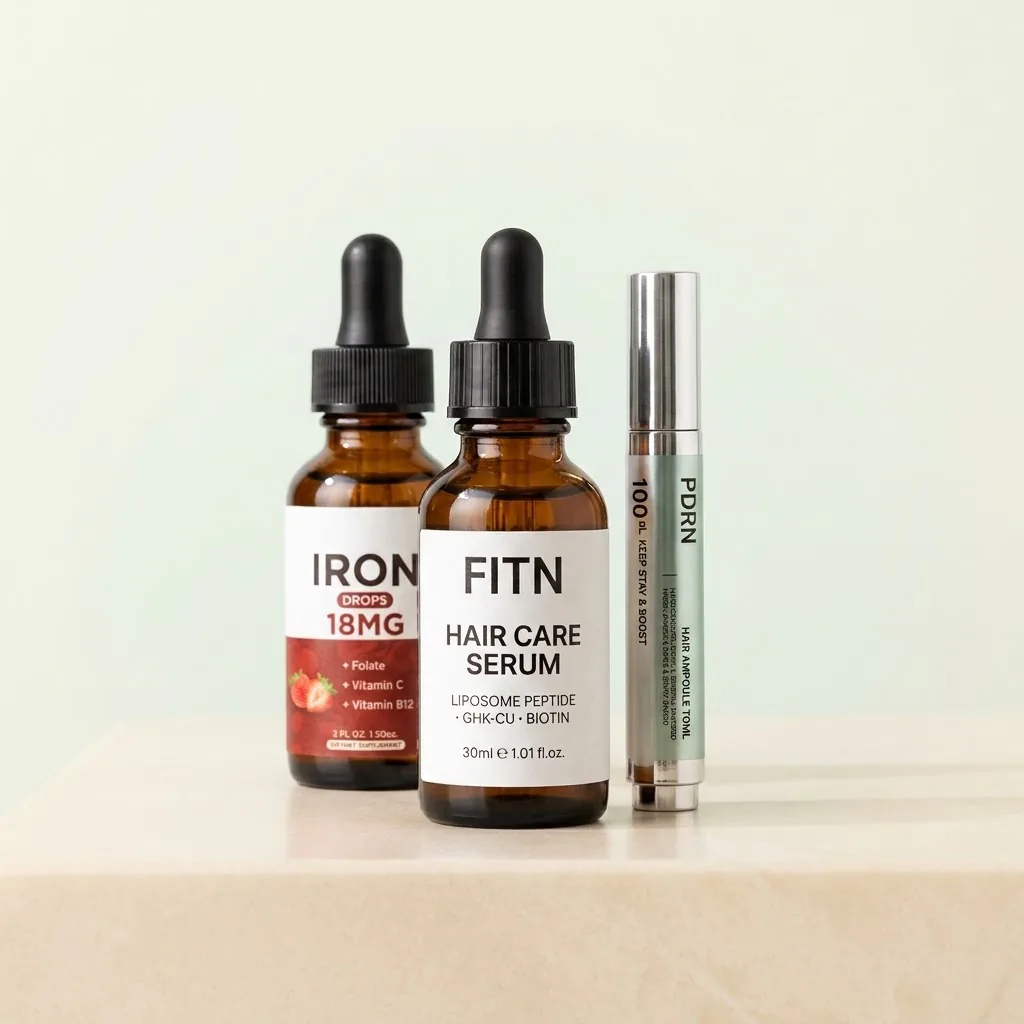
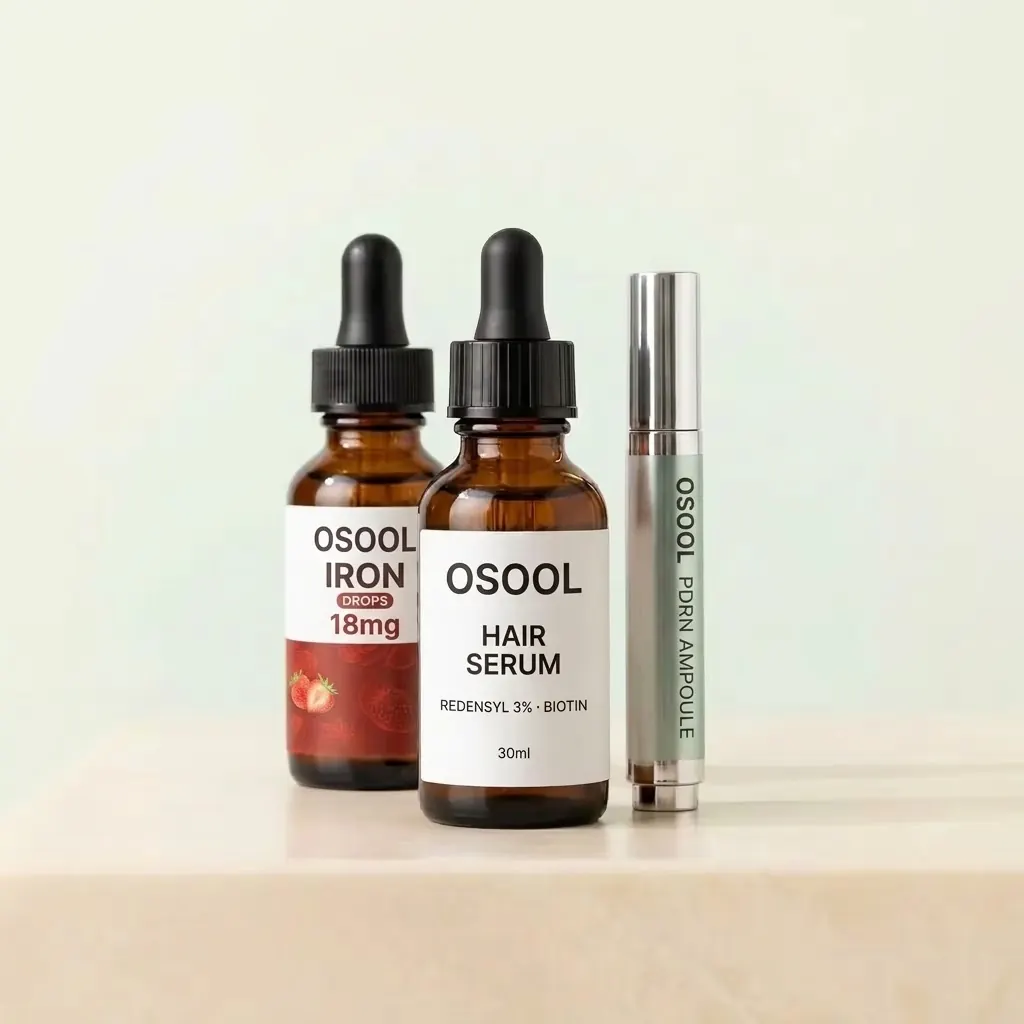
Replace FITN product photos with OSOOL labels so ads match the store.

Changed region(s): [[0.2812, 0.5, 0.4062, 0.75], [0.4375, 0.5312, 0.5625, 0.75], [0.5938, 0.4688, 0.6875, 0.7188]]

diff --git a/frontend/src/content/products.ts b/frontend/src/content/products.ts
@@ -101,7 +101,7 @@ export const products: Product[] = [
     pageImages: {
       hero: {
         src: "/product-pages/serum-hero.webp",
-        alt: "سيروم أصول ريدنسل ٣٪ وبيوتين على سطح فاخر مع مكونات فعالة وخلفية قبل وبعد خفيفة",
+        alt: "سيروم أصول ريدنسل ٣٪ وبيوتين على سطح رخامي مع مكوّنات فعالة",
       },
       mechanism: {
         src: "/product-pages/serum-mechanism.webp",
